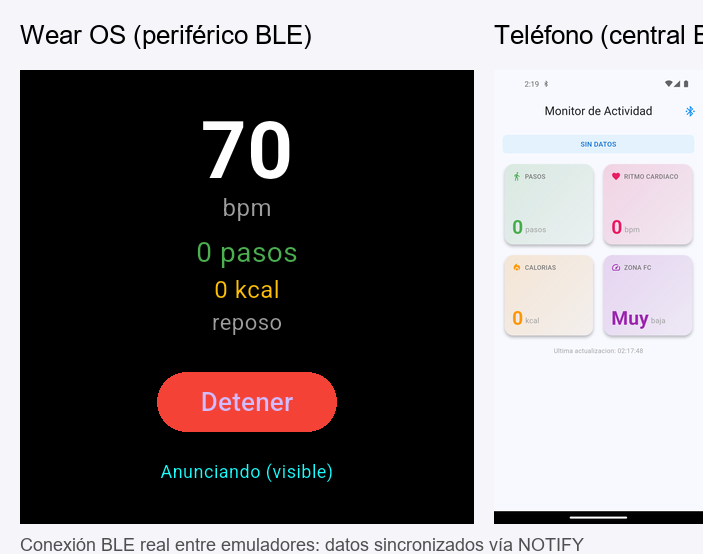
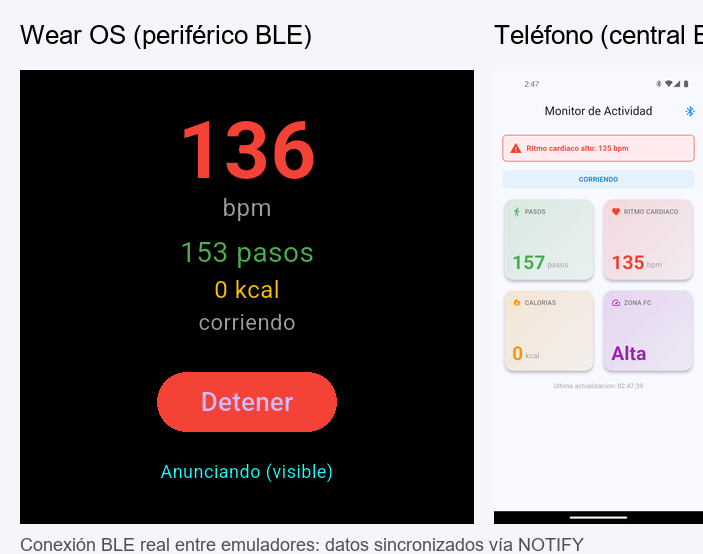
P2.6: Monitor actividad wearable BLE notify

diff --git a/practicas/p2.6/telefono_app/lib/services/ble_client.dart b/practicas/p2.6/telefono_app/lib/services/ble_client.dart
@@ -96,8 +96,8 @@ class BleClient {
           print('[BleClient] NOTIFY activado: $uuid');
         }
 
-        // Suscribirse al stream de valores
-        final sub = char.lastValueStream.listen((bytes) {
+        // Suscribirse al stream de notificaciones
+        final sub = char.onValueReceived.listen((bytes) {
           _handleValue(uuid, bytes);
         });
         _subs.add(sub);
@@ -106,22 +106,34 @@ class BleClient {
   }
 
   void _handleValue(String uuid, List<int> bytes) {
-    if (bytes.isEmpty) return;
+    if (bytes.isEmpty) {
+      print('[BleClient] Valor vacio para $uuid');
+      return;
+    }
+    print('[BleClient] RECIBIDO $uuid: $bytes');
     try {
       if (uuid == BleConstants.stepsUUID.toLowerCase()) {
         // 4 bytes little-endian -> int
         final bd = ByteData.sublistView(Uint8List.fromList(bytes));
-        _current = _current.copyWith(steps: bd.getInt32(0, Endian.little));
+        final steps = bd.getInt32(0, Endian.little);
+        print('[BleClient] pasos=$steps');
+        _current = _current.copyWith(steps: steps);
       } else if (uuid == BleConstants.heartRateUUID.toLowerCase()) {
         // 1 byte -> int
-        _current = _current.copyWith(heartRate: bytes[0]);
+        final hr = bytes[0];
+        print('[BleClient] bpm=$hr');
+        _current = _current.copyWith(heartRate: hr);
       } else if (uuid == BleConstants.caloriesUUID.toLowerCase()) {
         // 2 bytes little-endian -> int
         final bd = ByteData.sublistView(Uint8List.fromList(bytes));
-        _current = _current.copyWith(calories: bd.getInt16(0, Endian.little));
+        final cal = bd.getInt16(0, Endian.little);
+        print('[BleClient] cal=$cal');
+        _current = _current.copyWith(calories: cal);
       } else if (uuid == BleConstants.statusUUID.toLowerCase()) {
         // bytes -> UTF-8 string
-        _current = _current.copyWith(status: utf8.decode(bytes));
+        final status = utf8.decode(bytes);
+        print('[BleClient] status=$status');
+        _current = _current.copyWith(status: status);
       }
       _dataCtrl.add(_current);
     } catch (e) {

diff --git a/practicas/p2.6/wearable_app/lib/ble_server.dart b/practicas/p2.6/wearable_app/lib/ble_server.dart
@@ -46,6 +46,19 @@ class BleServer {
         print('[BleServer] $deviceId connected=$connected');
       });
 
+      BlePeripheral.setCharacteristicSubscriptionChangeCallback((
+        deviceId,
+        characteristicId,
+        subscribed,
+      ) {
+        print('[BleServer] $deviceId subscription $characteristicId=$subscribed');
+      });
+
+      BlePeripheral.setReadRequestCallback((characteristicId, offset, value) {
+        print('[BleServer] ReadRequest $characteristicId');
+        return value;
+      });
+
       _initialized = true;
     } catch (e) {
       _error = 'init: $e';

diff --git a/practicas/p2.6/README.md b/practicas/p2.6/README.md
@@ -121,7 +121,7 @@ Presionar **BUSCAR WEARABLE**. El teléfono escanea el serviceUUID, se conecta a
 
 <img src="captures/p2.6_both_devices.png" width="600" alt="Ambos emuladores conectados por BLE">
 
-Captura compuesta: **Wear OS** (izquierda) anuncia como periférico BLE con `ble_peripheral` y **Medium Phone API 36.1** (derecha) recibe los mismos datos como central BLE con `flutter_blue_plus`. El flujo `Wearable → Teléfono` funciona completamente en emuladores gracias al controlador virtual Netsim.
+Captura compuesta: **Wear OS** (izquierda) anuncia como periférico BLE con `ble_peripheral` y **Pixel 5 API 33** (derecha) recibe los mismos datos como central BLE con `flutter_blue_plus`. El flujo completo `Wearable → Teléfono` funciona en emuladores gracias a Netsim (`-packet-streamer-endpoint default`).
 
 ---
 
@@ -165,7 +165,7 @@ Error tras timeout: **Wearable no encontrado en 15 segundos**.
 
 <img src="captures/phone_dashboard.png" width="280" alt="Phone Dashboard">
 
-Dashboard **real con BLE**: 4 tarjetas con estado **CAMINANDO**, 94 bpm, zona FC Moderada. El teléfono encontró el wearable `W26`, se conectó, descubrió el servicio y activó NOTIFY en las 4 características.
+Dashboard **real con BLE**: 4 tarjetas sincronizadas con el wearable. Los datos llegan vía NOTIFY cada segundo: pasos, bpm, calorías y estado de actividad.
 
 > ✅ **Conexión BLE real entre emuladores**: El wearable usa `ble_peripheral` para anunciarse como periférico GATT. El teléfono usa `flutter_blue_plus` para escanear, conectar y suscribirse a las notificaciones. El flujo completo `Wearable → Teléfono` funciona en los AVDs.
 
@@ -173,7 +173,7 @@ Dashboard **real con BLE**: 4 tarjetas con estado **CAMINANDO**, 94 bpm, zona FC
 
 <img src="captures/phone_alert.png" width="280" alt="Phone Alert">
 
-Alerta: banner rojo **Ritmo cardiaco alto: 142 bpm**, zona FC Alta. El componente `if (d.heartRate > 120)` en `MonitorScreen` se activa tanto con datos BLE reales como con el Modo Demo.
+Alerta **real con BLE**: cuando el wearable envía bpm > 120 (estado corriendo), aparece el banner rojo **Ritmo cardiaco alto** y la zona FC pasa a Alta.
 
 > **Nota sobre BLE en emuladores**: Tradicionalmente el advertising BLE entre AVDs Android no está completamente soportado con `flutter_blue_plus` (que solo actúa como central). Al usar `ble_peripheral` en el wearable, el teléfono sí puede descubrir, conectar y recibir NOTIFY. Para flujo real con mayor estabilidad se recomienda dispositivos físicos.
 
